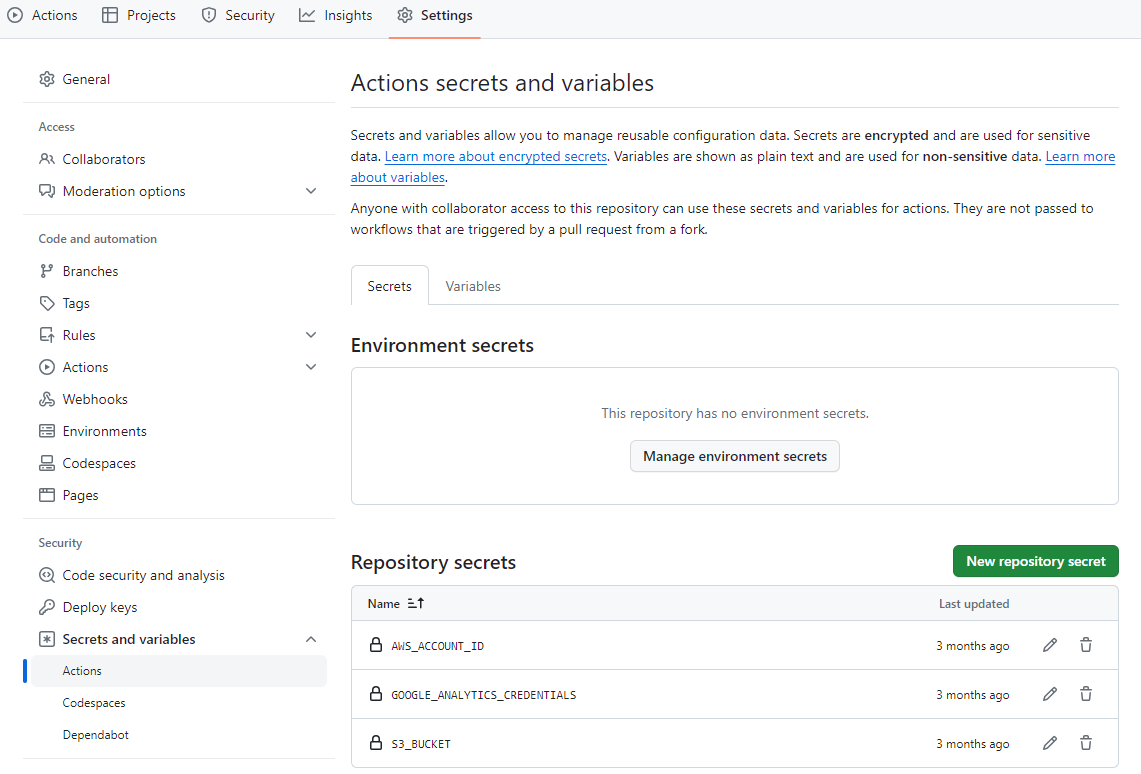
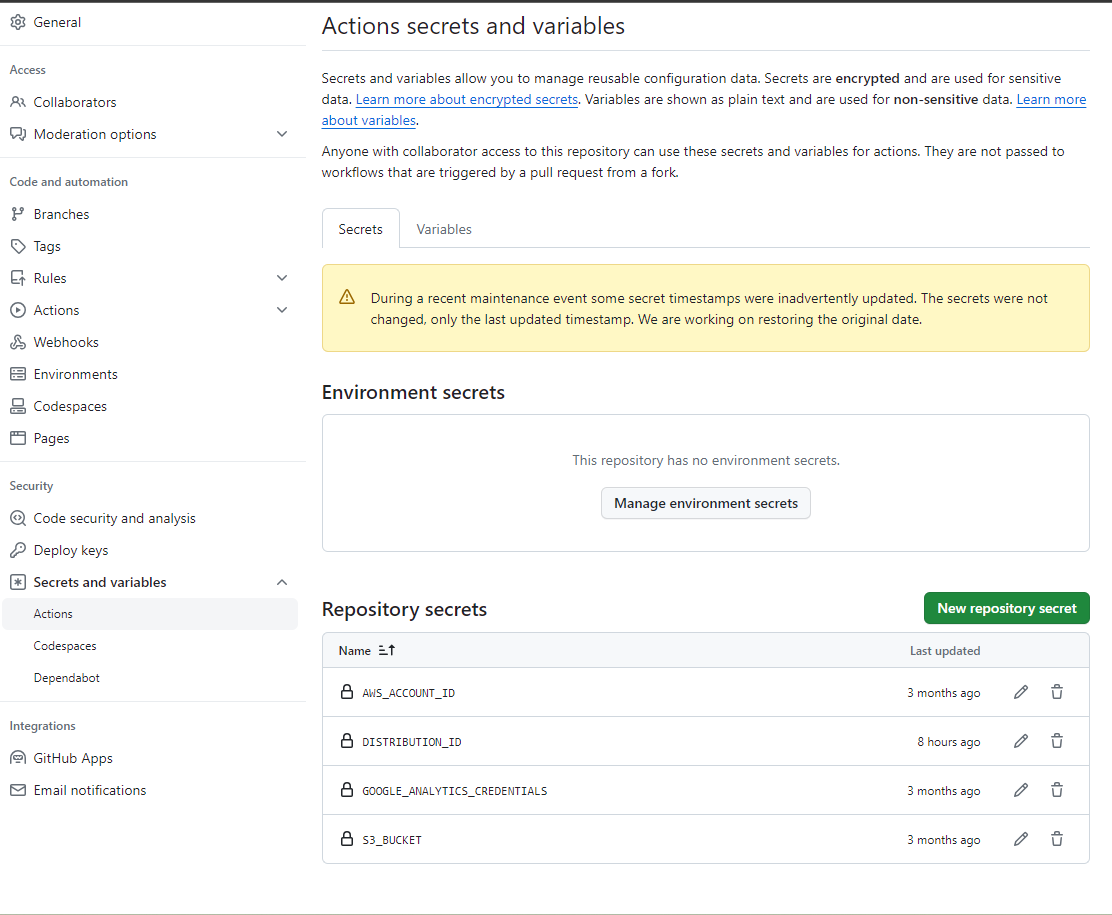
update hugo-github

diff --git a/content/post/2023-11/hugo-github.md b/content/post/2023-11/hugo-github.md
@@ -60,10 +60,10 @@ thumbnail: /images/hugo.png
 
 ## Github Actionsの設定
 
-続いて、Github Actionsの設定です。GitHubリポジトリに以下の様に`s3_upload.yml`を配置します。`distribution-id`には自分の環境でのディストリビューションIDを設定する必要があります。
+続いて、Github Actionsの設定です。GitHubリポジトリの`.github/workflows/`ディレクトリに`s3-upload.yml`を配置します。
 
-{{< code lang="yml" title="s3_upload.yml" >}}
-name: s3_upload
+{{< code lang="yml" title="s3-upload.yml" >}}
+name: s3-upload
 
 on:
   push:
@@ -118,16 +118,16 @@ jobs:
         run: |
           echo "uploding to s3 ..."
           aws s3 sync public s3://${{ secrets.S3_BUCKET }}/ --size-only --delete
-          aws cloudfront create-invalidation --region ap-northeast-1 --distribution-id XXXXXXXXXXXXX --paths "/*"
+          aws cloudfront create-invalidation --region ap-northeast-1 --distribution-id ${{ secrets.DISTRIBUTION_ID }} --paths "/*"
 {{< /code >}}
 
-また、GitHubのSecrets設定で、`AWS_ACCOUNT_ID`にAWSのアカウントIDと`S3_BUCKET`にバケット名を入れます。
+また、GitHubのSecrets設定で、`AWS_ACCOUNT_ID`にAWSのアカウントID、`S3_BUCKET`にS3バケット名、`DISTRIBUTION_ID`にはディストリビューションIDを設定します。
 
 {{< luminous src="/images/hugo-github-04.png" caption="GitHubのSecrets設定">}}
 
 これで設定は完了ですので、実際にGitHubにプッシュし、All workflowsの画面から処理が実行されているのを確認できたら成功です。
 
-{{< luminous src="/images/hugo-github-04.png" caption="GitHubのSecrets設定">}}
+{{< luminous src="/images/hugo-github-05.png" caption="GitHubのSecrets設定">}}
 
 * * *
 
